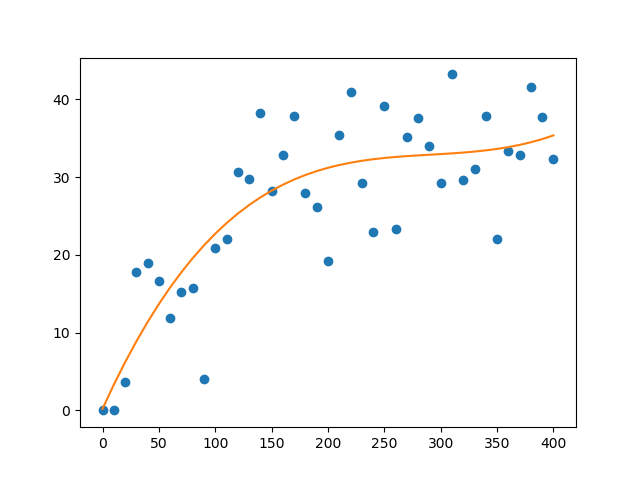
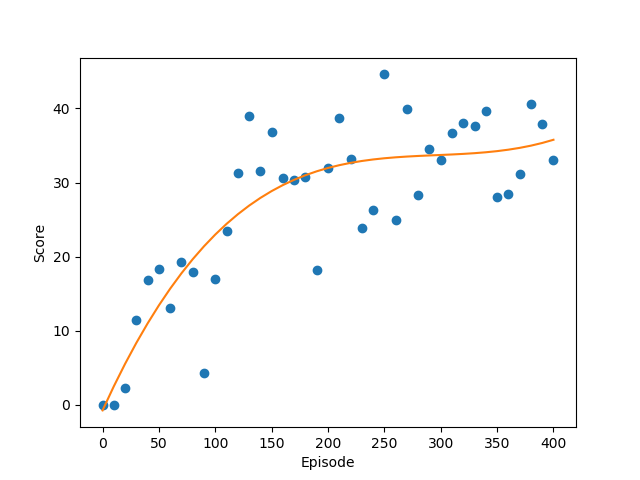
Update image and documentation

diff --git a/Genetic/plotGenerationToScoreGraph.py b/Genetic/plotGenerationToScoreGraph.py
@@ -5,7 +5,7 @@ import os
 import matplotlib.pyplot as plt
 import seaborn as sns
 import pandas as pd
-
+import time
 # This class is used to plot out the performance of each snake generation trained by genetic algorithm
 
 SIZE_INPUT_LAYER = 14

diff --git a/DeepQ/snakeML.py b/DeepQ/snakeML.py
@@ -300,7 +300,7 @@ def gameLoopML():
     master.update()
     global displaySnakeCanvas
     if displaySnakeCanvas:
-        time.sleep(0.01)
+        time.sleep(0.05)
 
 
 def exit():

diff --git a/DeepQ/plotEpisodeToScoreGraph.py b/DeepQ/plotEpisodeToScoreGraph.py
@@ -6,6 +6,7 @@ import matplotlib.pyplot as plt
 import seaborn as sns
 import pandas as pd
 
+
 SIZE_INPUT_LAYER = 14
 
 PATH = f"model/"

diff --git a/Genetic/README.md b/Genetic/README.md
@@ -4,15 +4,28 @@
 
 This directory contains code for a Snake Game AI that is trained using Genetic Algorithm 
 
+![Snake Gameplay](image/generation_40.gif)
+
 ## Description
 This algorithm trains the AI by simulating natural selection. The population for the first generation was generated at random, and the later generations will then be produced by crossbreeding the top performing snakes from the previous generation. 
 
 The snakes chosen to crossbreed are selected based on their fitness function, with a higher fitness meaning that they have a higher chance to be selected as a parent. 
 
+The snake runs on a neural network with 14 input units, 3 hidden layer with 30 units, and an output layer with 3 units.
+
+The input layer consist of:
+* Distance of snake to the wall boundaries (Left, Front, Right)
+* Distance of snake to its tail (Left, Front, Right)
+* Direction the snake is facing (Up, Down, Left, Right)
+* Distance from food to snake (Up, Down, Left, Right)
+
+The output layer consist of the following possible actions the snake can take:
+* Move left
+* Move front
+* Move right
+* 
 ## Results
 I have trained the AI for 40 generations, with the performance of it compiled in the following graph. 
 
 ![Graph of performance](image/Figure_1.png)
-
-It can be seen that the performance of the AI steadily increases over the generations. It appears that the performance of the snakes can still be improved given more training time. 
 

diff --git a/DeepQ/README.md b/DeepQ/README.md
@@ -4,13 +4,27 @@
 
 This directory contains code for a Snake Game AI that utilises an algorithm in Deep Reinforcement Learning known as Deep Q Learning. 
 
+![Snake Gameplay](image/episode_380_62.gif)
+
 ## Description
 This algorithm trains the AI by providing it with either a reward or penalty depending on its action. Overtime, the AI will be able to learn the actions that it should perform in order to obtain the highest reward.
 
+The snake runs on a neural network with 14 input units, 3 hidden layer with 30 units, and an output layer with 3 units.
+
+The input layer consist of:
+* Distance of snake to the wall boundaries (Left, Front, Right)
+* Distance of snake to its tail (Left, Front, Right)
+* Direction the snake is facing (Up, Down, Left, Right)
+* Distance from food to snake (Up, Down, Left, Right)
+
+The output layer consist of the following possible actions the snake can take:
+* Move left
+* Move front
+* Move right
+* 
 ## Results
 I have trained the AI for 400 episodes, with the performance of it compiled in the following graph. 
 
 ![Graph of performance](image/Figure_1.png)
 
-It can be seen that the performance of the AI steadily increases over the episode, but it appears to stagnant after reaching a score of 40-50.
 

diff --git a/README.md b/README.md
@@ -1,8 +1,13 @@
 # Snake_ML
 
-Snake game AI trained with 2 different machine learning algorithms. Coded with python using keras.
+## Introduction
 
-* Deep Q-Learning
-* Genetic Algorithm
+Snake game AI trained with 2 different machine learning techniques.
+
+* [Deep Q-Learning](https://github.com/KokJianYu/Snake_ML/tree/master/DeepQ)
+* [Genetic Algorithm](https://github.com/KokJianYu/Snake_ML/tree/master/Genetic)
 
 More information can be found in their specific directory.
+
+## Environment
+This project is built on python 3.6, as well as Keras with Tensorflow backend. 
